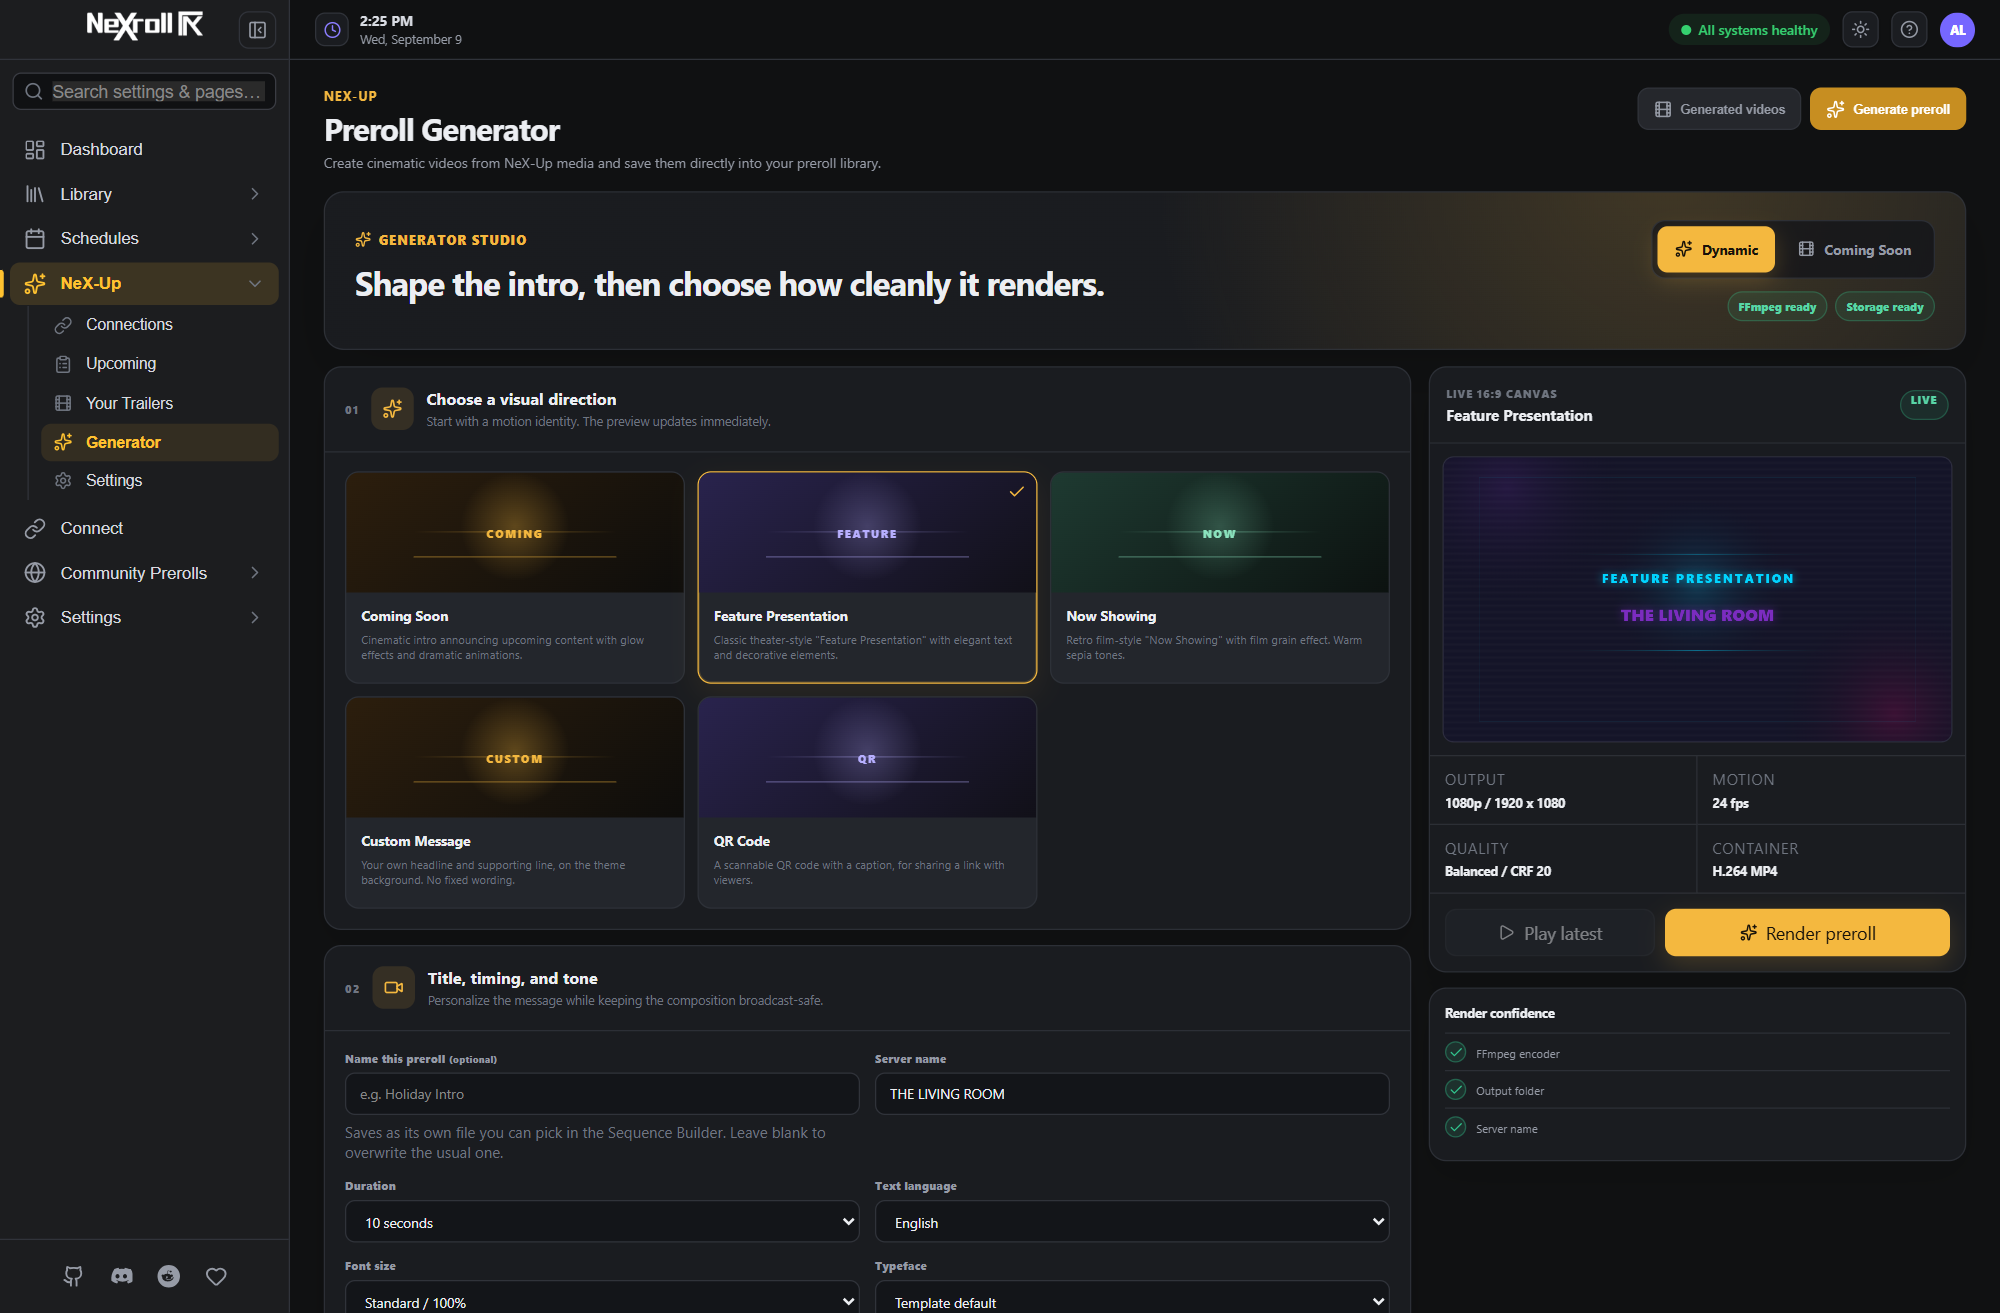
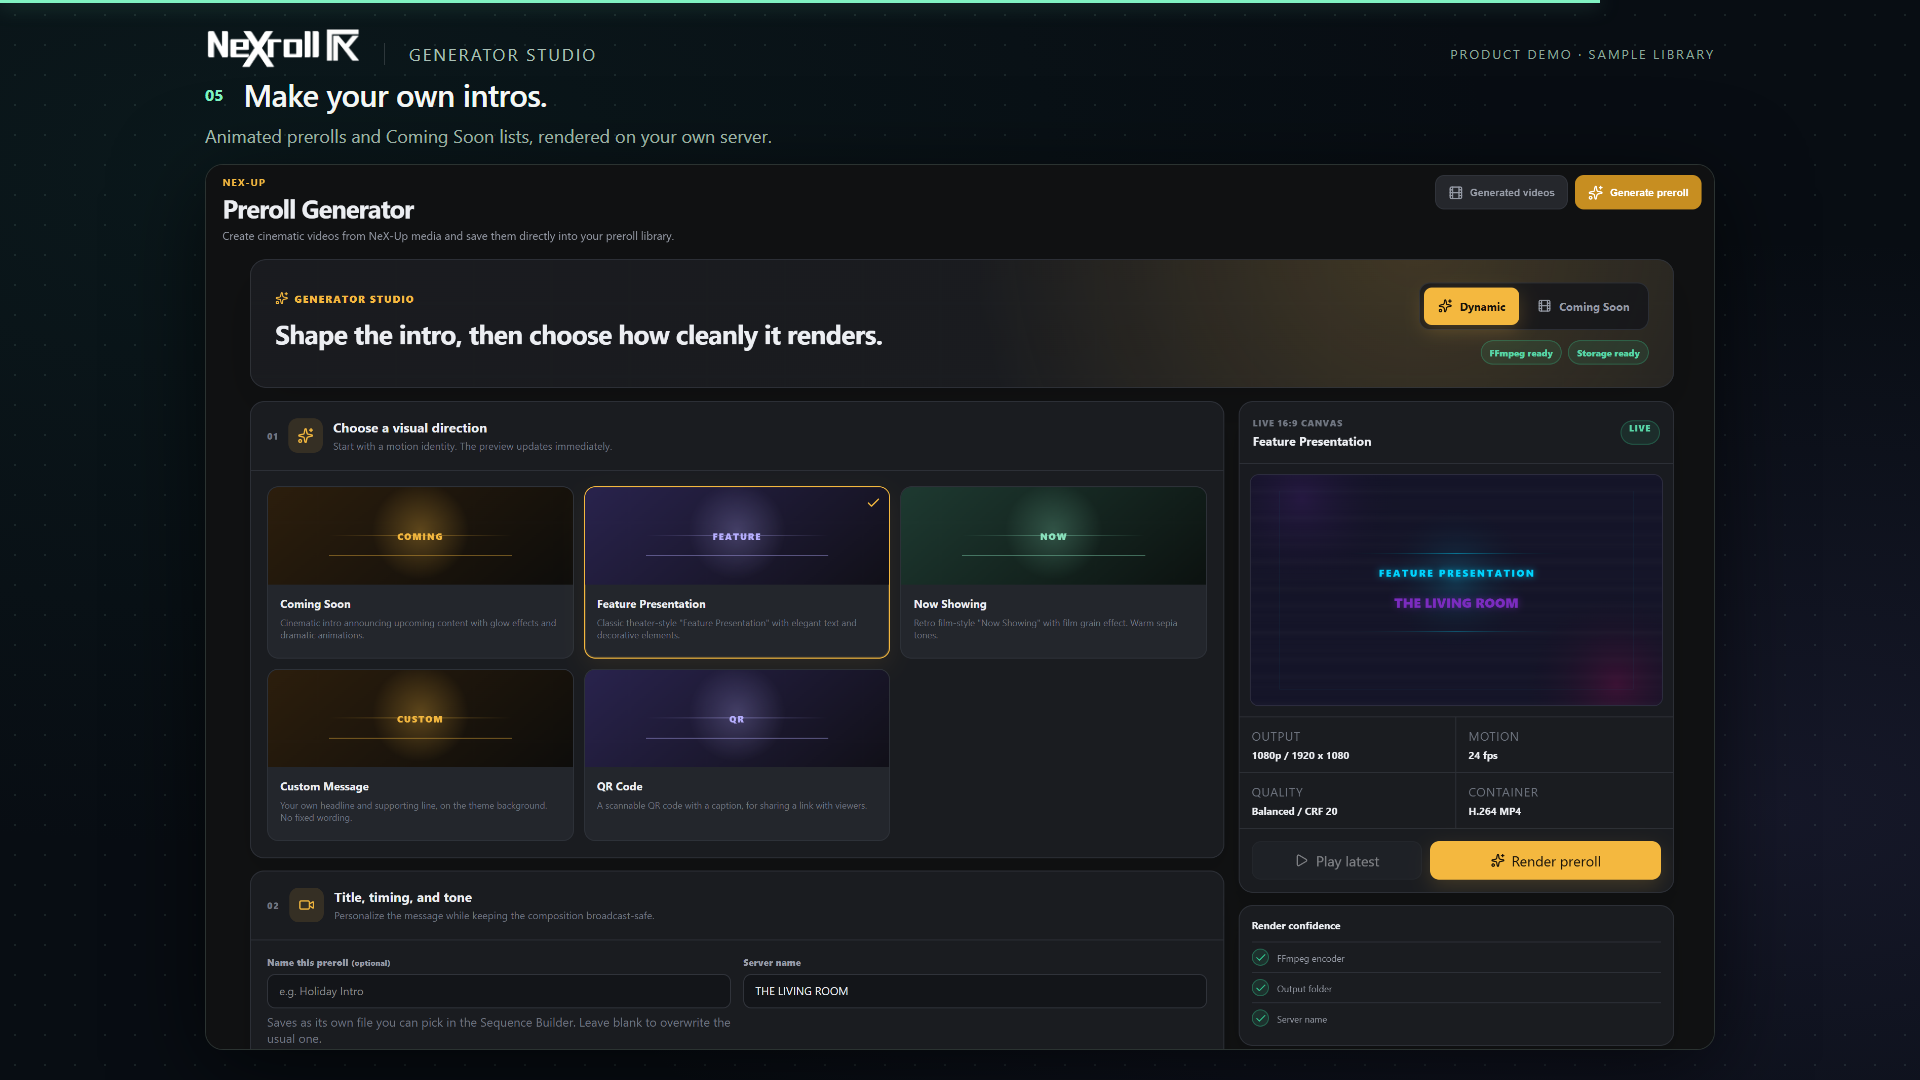
Refresh the README screenshots

diff --git a/docs/screenshots/v2.2.0/README.md b/docs/screenshots/v2.2.0/README.md
@@ -1,13 +1,13 @@
-# Screenshots for the 2.2.0 README draft
+# Screenshots for the README
 
-Captured September 9, 2026 from the current local frontend build prepared for 2.2.0-beta.9. These are browser captures of the application, using its Midnight theme and updated logo.
+All seven images share one frame: the dark backdrop, logo row, numbered headline and rounded app panel from the Flow view demo recording, with the "product demo, sample library" label. The folder keeps its 2.2.0 name so existing links still work.
 
-The browser used example API responses for the library, schedules, connections, system health, and community catalog. Names, statistics, and server details are fictional. The library thumbnails are original SVG demonstration artwork. Generator Studio shows its actual live canvas preview. No live media-server data, credentials, or community downloads were used.
+`sequence-flow.png` was added for 2.2.0-beta.11. It is a frame of the Flow view demo recording, and its "07" chapter number comes from that recording. The sequence, categories and trailer titles in it are demonstration data. It was reduced to a 256-colour palette.
 
-Included views: dashboard, library gallery, schedules, monthly calendar, Generator Studio, and Community Prerolls. The two `readme-preview-*` images show the local Markdown preview in light and dark mode.
+The other six (dashboard, library, schedules, calendar, generator, community) replaced the September 2026 beta.9 captures on October 3, 2026. They are browser captures of the 2.2.2 frontend build at 1920x1080 and 2x scale, in the Midnight theme, with the clock fixed to October 8, 2026. The sidebar and top bar are cropped out. Each capture was placed in the frame by the `ReadmeStill` composition in `launch-video/src/ReadmeStills.jsx`. They are saved as lossless full-colour PNGs, because a 256-colour palette banded the thumbnail and glow gradients.
 
-`sequence-flow.png` was added later, for 2.2.0-beta.11, and comes from a different source than the rest: it is a frame of the Flow view demo recording, so it carries that recording's caption and its "product demo, sample library" label rather than being a plain browser capture. The sequence, categories, and trailer titles in it are demonstration data. It was reduced to a 256-colour palette to keep it the same weight as the other captures.
+The browser used example API responses for the library, schedules, connections, system health, Library Trailers, Favorites and the community catalog. Names, statistics and server details are fictional. The library thumbnails are original SVG demonstration artwork. Generator Studio shows its actual live canvas preview. No live media-server data, credentials or community downloads were used.
 
-These captures illustrate the interface; they are not evidence of live playback, downloads, or backend health. Refresh them if the interface changes before the stable release.
+The two `readme-preview-*` images show the local Markdown preview of the 2.2.0 draft in light and dark mode.
 
-The approved layout is now used in the repository's root `README.md`, starting with 2.2.0-beta.9. It remains labeled as a beta until the stable 2.2.0 release.
+These captures illustrate the interface; they are not evidence of live playback, downloads or backend health. Refresh them when the interface changes.

diff --git a/README.md b/README.md
@@ -20,9 +20,9 @@
 
 Self-hosted on **Windows, Docker, or Unraid**, with everything managed from your browser.
 
-![The NeXroll dashboard showing the current selection, upcoming schedules, and library activity](docs/screenshots/v2.2.0/dashboard.png)
+![The NeXroll dashboard showing the current and next schedule, system health, library and storage](docs/screenshots/v2.2.0/dashboard.png)
 
-*Screenshots show NeXroll 2.2.0 with example data and demonstration artwork.*
+*Screenshots show NeXroll 2.2 with example data and demonstration artwork.*
 
 ## Features at a glance
 
